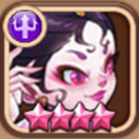
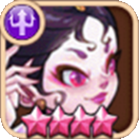
Cleaned up images, renamed Lord of Sparkless to Lord of Sparkles, and updated hero data.

diff --git a/src/data/heroes.tsx b/src/data/heroes.tsx
@@ -1534,6 +1534,20 @@ let _heroesData: HeroesData = {
         "imprint": false,
     }, 
     /* === Transcendence ============================================================================================= */
+    "Weaver of Life - Ignacia": {
+        "faction": "Transcendence",
+        "class": "Mage",
+        "stars": [5, 6, 9, 10],
+        "elite": true,
+        "imprint": true,
+        "tenants": {
+            "1": ['Ignacia', 'Melissa'],
+            "2": ['Roseheart Fanatic - Williams', 'Natalie',],
+            "3": ['Williams',],
+            "4": ['Count of Nightmare - Finn',],
+        },
+        "short": "WIFE",
+    },
     "Stygian Twilight - Vespera": {
         "faction": "Transcendence",
         "class": "Priest",
